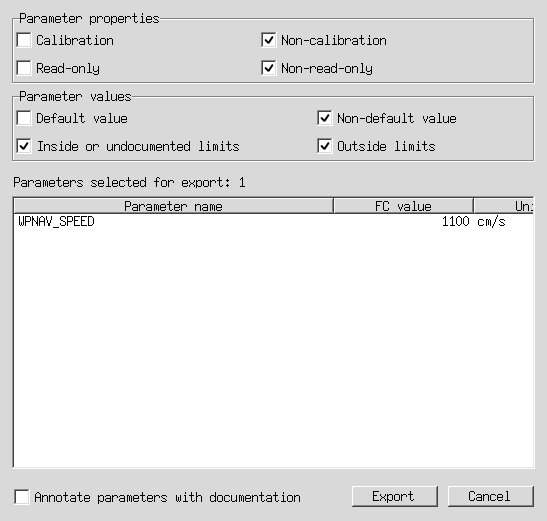
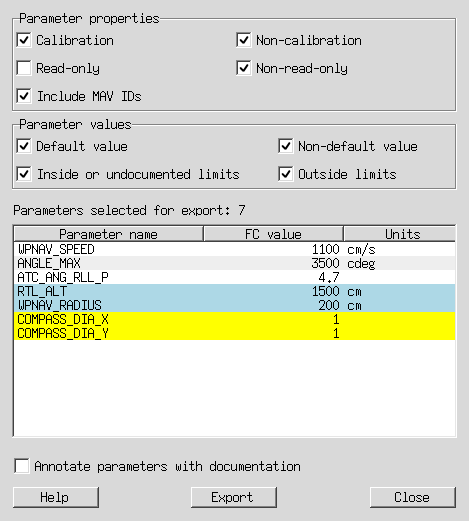
feat(parameter-export): improve the export dialog layout
Move the annotation option above the action buttons and add a Help button that
opens the parameter export manual. Keep the Help, Export, and Close buttons at
their natural widths, evenly spaced across the row.

Increase the parameter-name column's minimum width and apply platform-specific
sizing. Expand the screenshot fixture to show seven representative parameters,
with default and calibration examples at the bottom, then regenerate the manual
screenshot.

diff --git a/tests/test_regenerate_app_screenshots_fully_automated.py b/tests/test_regenerate_app_screenshots_fully_automated.py
@@ -13,10 +13,14 @@ SPDX-License-Identifier: GPL-3.0-or-later
 import argparse
 import importlib.util
 import sys
+from collections.abc import Generator
+from contextlib import nullcontext
 from pathlib import Path
 from queue import SimpleQueue
 from types import ModuleType, SimpleNamespace
 from unittest.mock import ANY, MagicMock, call, patch
+
+import pytest
 
 from ardupilot_methodic_configurator.plugins.plugin_constants import PLUGIN_MOTOR_TEST
 
@@ -37,6 +41,114 @@ def _load_screenshot_generator() -> ModuleType:
 
 
 screenshot_generator = _load_screenshot_generator()
+
+
+@pytest.fixture(name="parameter_export_scene")
+def parameter_export_scene_fixture() -> Generator[SimpleNamespace, None, None]:
+    """Provide representative FC values and export controls without opening a display."""
+    controller = MagicMock()
+    controller.fc_parameters = {
+        "WPNAV_SPEED": 500.0,
+        "ANGLE_MAX": 3000.0,
+        "ATC_ANG_RLL_P": 4.5,
+        "RTL_ALT": 1500.0,
+        "WPNAV_RADIUS": 200.0,
+        "INS_ACC_ID": 1.0,
+        "INS_GYR_ID": 2.0,
+    }
+    models = {
+        name: SimpleNamespace(
+            fc_value_equals_default_value=name in ("RTL_ALT", "WPNAV_RADIUS"),
+            is_calibration=name.startswith("INS_"),
+            is_readonly=False,
+        )
+        for name in controller.fc_parameters
+    }
+    editor = MagicMock()
+    editor.parameter_editor.get_fc_parameters_for_export.return_value = models
+    export_window = MagicMock(spec=screenshot_generator.tk.Toplevel)
+    export_window.title.return_value = screenshot_generator.translate("Export parameters")
+    checkboxes = [MagicMock(spec=screenshot_generator.ttk.Checkbutton) for _ in range(2)]
+    for checkbox, label in zip(checkboxes, ("Calibration", "Default value"), strict=True):
+        checkbox.cget.return_value = screenshot_generator.translate(label)
+        checkbox.winfo_children.return_value = []
+    decoy_label = MagicMock(spec=screenshot_generator.ttk.Label)
+    decoy_label.cget.return_value = screenshot_generator.translate("Calibration")
+    decoy_label.winfo_children.return_value = []
+    export_window.winfo_children.return_value = [decoy_label, *checkboxes]
+    editor.root.winfo_children.return_value = [export_window]
+    with (
+        patch.object(screenshot_generator, "_build_parameter_editor", return_value=(editor, controller)),
+        patch.object(screenshot_generator.shutil, "copytree"),
+        patch.object(screenshot_generator, "capture_widget") as capture,
+    ):
+        yield SimpleNamespace(
+            editor=editor, controller=controller, models=models, window=export_window, checkboxes=checkboxes, capture=capture
+        )
+
+
+@pytest.mark.parametrize(
+    ("failure", "message"),
+    [
+        ("missing-copter", "missing representative Copter parameters"),
+        ("missing-defaults", "needs two default and two calibration parameters"),
+        ("missing-calibrations", "needs two default and two calibration parameters"),
+        ("loading-models", "Could not load parameter models"),
+        ("missing-window", "Could not find the parameter export window"),
+        ("capture", "Could not capture the export window"),
+        (None, None),
+    ],
+)
+def test_parameter_export_capture_always_releases_the_editor_and_connection(
+    tmp_path: Path, parameter_export_scene: SimpleNamespace, failure: str | None, message: str | None
+) -> None:
+    """
+    Screenshot preparation must not leak a window or connection when validation fails.
+
+    GIVEN: An editor with downloaded FC values and an export preview
+    WHEN: Fixture validation, preview lookup, or capture fails, or capture succeeds
+    THEN: Owned resources are released and successful captures include representative rows
+    """
+    scene = parameter_export_scene
+    if failure == "missing-copter":
+        del scene.controller.fc_parameters["ANGLE_MAX"]
+    elif failure == "missing-defaults":
+        for name in ("RTL_ALT", "WPNAV_RADIUS"):
+            del scene.models[name]
+    elif failure == "missing-calibrations":
+        for name in ("INS_ACC_ID", "INS_GYR_ID"):
+            del scene.models[name]
+    elif failure == "loading-models":
+        scene.editor.parameter_editor.get_fc_parameters_for_export.side_effect = RuntimeError(message)
+    elif failure == "missing-window":
+        scene.editor.root.winfo_children.return_value = []
+    elif failure == "capture":
+        scene.capture.side_effect = RuntimeError(message)
+
+    with pytest.raises(RuntimeError, match=message) if message is not None else nullcontext():
+        screenshot_generator._capture_parameter_export(tmp_path / "export.png", 0.0, 0, tmp_path)
+
+    scene.editor.current_plugin_view.on_deactivate.assert_called_once_with()
+    scene.editor.current_plugin_view.destroy.assert_called_once_with()
+    scene.editor.root.destroy.assert_called_once_with()
+    scene.controller.disconnect.assert_called_once_with()
+    if failure in (None, "capture"):
+        scene.window.destroy.assert_called_once_with()
+        for checkbox in scene.checkboxes:
+            checkbox.invoke.assert_called_once_with()
+        scene.capture.assert_called_once_with(scene.window, tmp_path / "export.png", 0.0, 0)
+    else:
+        scene.capture.assert_not_called()
+    if failure is None:
+        assert scene.controller.fc_parameters == {
+            "WPNAV_SPEED": 600.0,
+            "ANGLE_MAX": 3500.0,
+            "ATC_ANG_RLL_P": 4.7,
+            "RTL_ALT": 1500.0,
+            "WPNAV_RADIUS": 200.0,
+            "INS_ACC_ID": 1.0,
+            "INS_GYR_ID": 2.0,
+        }
 
 
 def test_firmware_screenshot_capture_uses_sample_catalog_and_optional_progress(tmp_path) -> None:

diff --git a/scripts/regenerate_app_screenshots_fully_automated.py b/scripts/regenerate_app_screenshots_fully_automated.py
@@ -28,7 +28,7 @@ import tkinter.font as tk_font
 from contextlib import contextmanager
 from dataclasses import dataclass
 from pathlib import Path
-from tkinter import simpledialog
+from tkinter import simpledialog, ttk
 from typing import TYPE_CHECKING, cast
 from unittest.mock import MagicMock, patch
 
@@ -1035,7 +1035,9 @@ def _capture_parameter_editor(  # pylint: disable=too-many-arguments, too-many-p
             flight_controller.disconnect()
 
 
-def _capture_parameter_export(output_path: Path, delay: float, padding: int, vehicle_dir: Path) -> None:
+def _capture_parameter_export(  # pylint: disable=too-many-locals
+    output_path: Path, delay: float, padding: int, vehicle_dir: Path
+) -> None:
     """Capture the FC parameter export dialog with representative downloaded values."""
     with tempfile.TemporaryDirectory() as tmpdir:
         tmp_vehicle_dir = Path(tmpdir) / vehicle_dir.name
@@ -1045,16 +1047,77 @@ def _capture_parameter_export(output_path: Path, delay: float, padding: int, veh
             tmp_vehicle_dir,
             "normal",
         )
-        if "WPNAV_SPEED" in flight_controller.fc_parameters:
-            flight_controller.fc_parameters["WPNAV_SPEED"] += 100.0
         export_window = None
         try:
+            fc_parameters = flight_controller.fc_parameters
+            parameter_models = editor_window.parameter_editor.get_fc_parameters_for_export()
+            non_default_names = ("WPNAV_SPEED", "ANGLE_MAX", "ATC_ANG_RLL_P")
+            if not all(name in fc_parameters for name in non_default_names):
+                msg = "The parameter export screenshot fixture is missing representative Copter parameters"
+                raise RuntimeError(msg)
+            fc_parameters["WPNAV_SPEED"] += 100.0
+            fc_parameters["ANGLE_MAX"] = 3500.0
+            fc_parameters["ATC_ANG_RLL_P"] = 4.7
+
+            default_names = [
+                name
+                for name in ("RTL_ALT", "WPNAV_RADIUS")
+                if name in parameter_models
+                and parameter_models[name].fc_value_equals_default_value
+                and not parameter_models[name].is_calibration
+            ]
+            default_names.extend(
+                name
+                for name, parameter in parameter_models.items()
+                if len(default_names) < 2
+                and name not in default_names
+                and parameter.fc_value_equals_default_value
+                and not parameter.is_calibration
+                and not parameter.is_readonly
+            )
+            calibration_names = [
+                name
+                for name, parameter in parameter_models.items()
+                if parameter.is_calibration and name.startswith(("COMPASS_", "INS_"))
+            ]
+            if len(calibration_names) < 2:
+                calibration_names.extend(
+                    name
+                    for name, parameter in parameter_models.items()
+                    if len(calibration_names) < 2 and name not in calibration_names and parameter.is_calibration
+                )
+            if len(default_names) < 2 or len(calibration_names) < 2:
+                msg = "The parameter export screenshot fixture needs two default and two calibration parameters"
+                raise RuntimeError(msg)
+
+            selected_names = [*non_default_names, *default_names[:2], *calibration_names[:2]]
+            selected_fc_parameters = {name: fc_parameters[name] for name in selected_names}
+            fc_parameters.clear()
+            fc_parameters.update(selected_fc_parameters)
             editor_window.on_export_parameters_click()
             export_window = next(
-                child
-                for child in editor_window.root.winfo_children()
-                if isinstance(child, tk.Toplevel) and child.title() == translate("Export parameters")
+                (
+                    child
+                    for child in editor_window.root.winfo_children()
+                    if isinstance(child, tk.Toplevel) and child.title() == translate("Export parameters")
+                ),
+                None,
             )
+            if export_window is None:
+                msg = "Could not find the parameter export window for the parameter export screenshot"
+                raise RuntimeError(msg)
+            for checkbox_label in ("Calibration", "Default value"):
+                checkbox = _find_descendant(
+                    export_window,
+                    lambda widget, label=checkbox_label: (
+                        isinstance(widget, (ttk.Checkbutton, tk.Checkbutton)) and _widget_text(widget) == translate(label)
+                    ),
+                )
+                invoke = getattr(checkbox, "invoke", None)
+                if not callable(invoke):
+                    msg = f"Could not find the {checkbox_label} checkbox for the parameter export screenshot"
+                    raise RuntimeError(msg)
+                invoke()
             capture_widget(export_window, output_path, delay, padding)
         finally:
             if export_window is not None and export_window.winfo_exists():

diff --git a/ardupilot_methodic_configurator/frontend_tkinter_parameter_export.py b/ardupilot_methodic_configurator/frontend_tkinter_parameter_export.py
@@ -25,6 +25,7 @@ if __package__ in {None, ""}:  # pragma: no cover
 
 from ardupilot_methodic_configurator import _
 from ardupilot_methodic_configurator.backend_flightcontroller import FlightController
+from ardupilot_methodic_configurator.backend_internet import webbrowser_open_url
 from ardupilot_methodic_configurator.data_model_ardupilot_parameter import ArduPilotParameter
 from ardupilot_methodic_configurator.data_model_parameter_editor import ParameterEditor
 from ardupilot_methodic_configurator.data_model_parameter_export import (
@@ -65,7 +66,7 @@ class _ParameterTreeTooltip(Tooltip):
 class ParameterExportWindow(BaseWindow):  # pylint: disable=too-many-instance-attributes
     """Select parameter categories and export the matching FC values."""
 
-    def __init__(  # noqa: PLR0915  # pylint: disable=too-many-statements
+    def __init__(  # noqa: PLR0915  # pylint: disable=too-many-locals,too-many-statements
         self,
         parent: ParameterExportHost,
         parameters: dict[str, ArduPilotParameter],
@@ -220,7 +221,7 @@ class ParameterExportWindow(BaseWindow):  # pylint: disable=too-many-instance-at
             text=_("Annotate parameters with documentation"),
             variable=self.annotate_documentation,
         )
-        annotate_checkbox.pack(side=tk.LEFT)
+        annotate_checkbox.pack(anchor=tk.W)
         show_tooltip(
             annotate_checkbox,
             _(
@@ -229,11 +230,26 @@ class ParameterExportWindow(BaseWindow):  # pylint: disable=too-many-instance-at
                 "It will dramatically increase the file size though."
             ),
         )
-        cancel_button = ttk.Button(buttons, text=_("Cancel"), command=self.close)
-        cancel_button.pack(side=tk.RIGHT)
-        show_tooltip(cancel_button, _("Close this window and discard this export selection without creating a file."))
-        export_button = ttk.Button(buttons, text=_("Export"), command=self.export)
-        export_button.pack(side=tk.RIGHT, padx=(0, 8))
+        button_row = ttk.Frame(buttons)
+        button_row.pack(fill=tk.X, pady=(8, 0))
+        for column in (1, 3):
+            button_row.columnconfigure(column, weight=1, uniform="button_spacing")
+
+        help_button = ttk.Button(
+            button_row,
+            text=_("Help"),
+            command=lambda: webbrowser_open_url(
+                "https://ardupilot.github.io/MethodicConfigurator/USERMANUAL_fc_parameter_export.html"
+            ),
+        )
+        help_button.grid(row=0, column=0, sticky=tk.W)
+        show_tooltip(help_button, _("Open the parameter export user manual"))
+
+        close_button = ttk.Button(button_row, text=_("Close"), command=self.close)
+        close_button.grid(row=0, column=4, sticky=tk.E)
+        show_tooltip(close_button, _("Close this window and discard this export selection without creating a file."))
+        export_button = ttk.Button(button_row, text=_("Export"), command=self.export)
+        export_button.grid(row=0, column=2)
         show_tooltip(
             export_button,
             _(
@@ -277,7 +293,8 @@ class ParameterExportWindow(BaseWindow):  # pylint: disable=too-many-instance-at
         }
         for column, label in self._column_labels.items():
             self.parameter_tree.heading(column, text=label, command=partial(self._sort_by_column, column))
-        self.parameter_tree.column("name", width=146, minwidth=120, stretch=False)
+        w_factor = 1.3 if self.root.tk.call("tk", "windowingsystem") != "win32" else 1.0
+        self.parameter_tree.column("name", width=round(146 * w_factor), minwidth=round(132 * w_factor), stretch=False)
         self.parameter_tree.column("fc_value", width=140, minwidth=90, anchor=tk.E, stretch=False)
         self.parameter_tree.column("unit", width=120, minwidth=70, stretch=True)
         scrollbar = ttk.Scrollbar(table_frame, orient=tk.VERTICAL, command=self.parameter_tree.yview)
